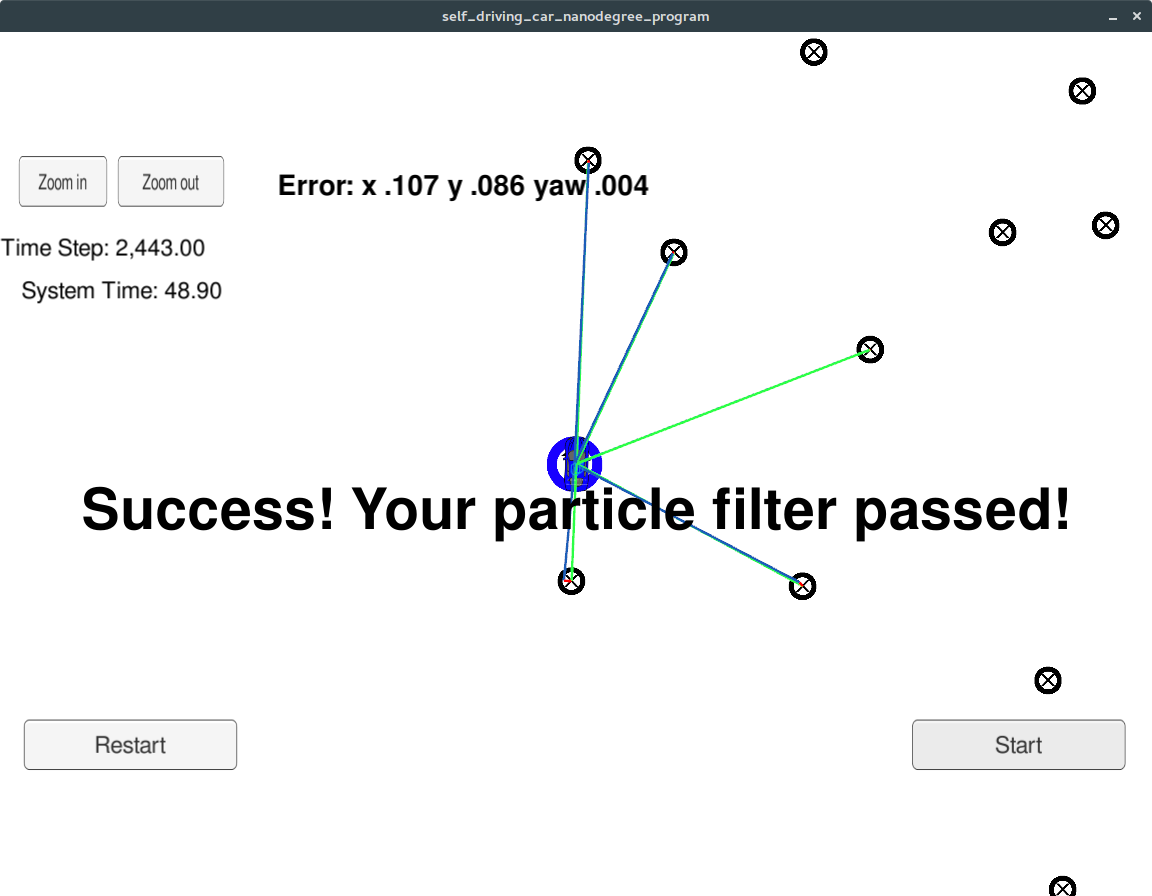
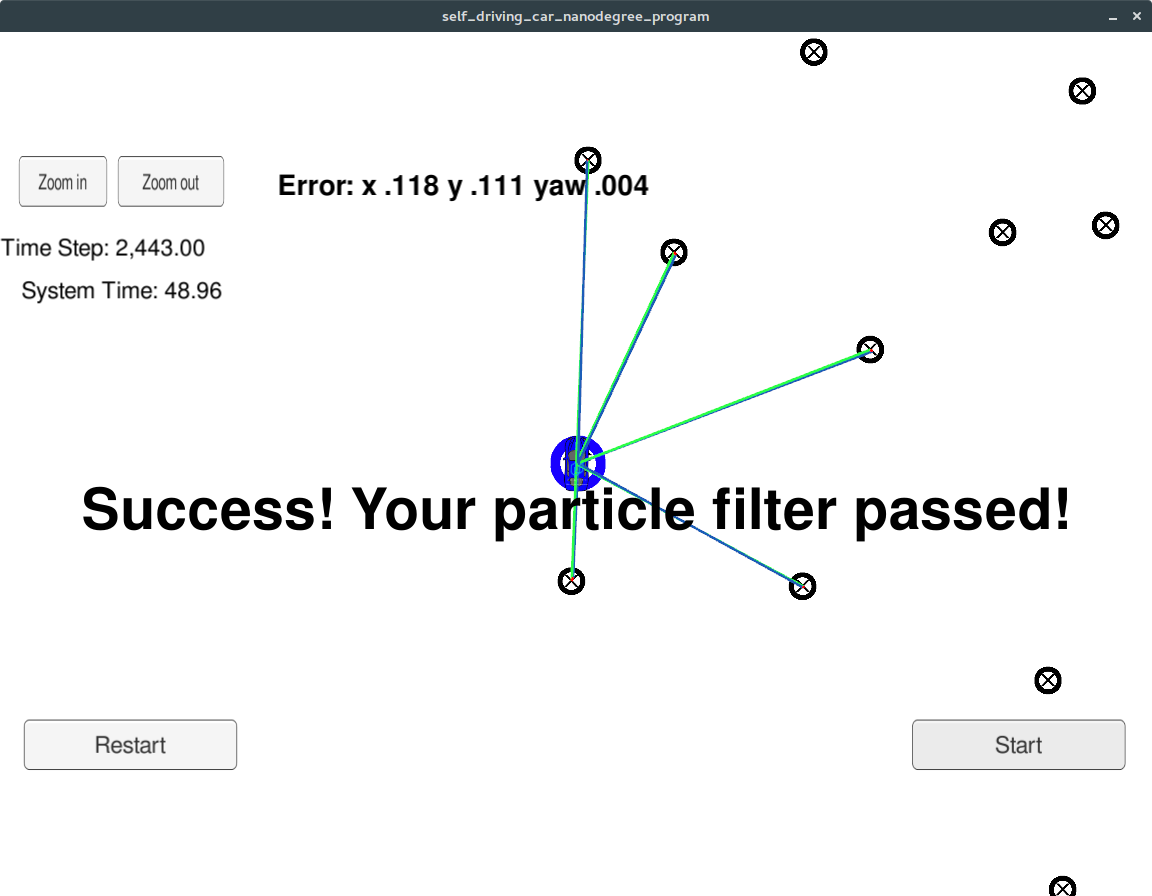
Update motion model in prediction() for when provided yaw rate is zero.

diff --git a/src/particle_filter.cpp b/src/particle_filter.cpp
@@ -74,38 +74,38 @@ void ParticleFilter::prediction(double delta_t, double std_pos[], double velocit
 	//  http://en.cppreference.com/w/cpp/numeric/random/normal_distribution
 	//  http://www.cplusplus.com/reference/random/default_random_engine/
 
-	if (fabs(yaw_rate) < 0.0001) {
-		std::cout << "Error: division by zero, bad yaw_rate provided to ParticleFilter::prediction()!"
-			<< std::endl;
-		return;
-	}
-
-	double v_over_yaw_rate = velocity / yaw_rate;
-	double yaw_delta = yaw_rate * delta_t;
+	default_random_engine rand_gen;
 
 	double std_x = std_pos[0];
 	double std_y = std_pos[1];
 	double std_theta = std_pos[2];
-
-	default_random_engine rand_gen;
 
 	// Normal Gaussian distributions for x, y, and theta
 	normal_distribution<double> noisy_x(0.0, std_x);
 	normal_distribution<double> noisy_y(0.0, std_y);
 	normal_distribution<double> noisy_theta(0.0, std_theta);
 	
+	double v_dt = velocity * delta_t;
+	
 	for (int i = 0; i < num_particles; i++) {
-		double theta = normalizeAngle(particles[i].theta);
-		double theta_yaw_delta = normalizeAngle(theta + yaw_rate * delta_t);
-		particles[i].x = particles[i].x + v_over_yaw_rate * (sin(theta_yaw_delta) - sin(theta));
-		particles[i].y = particles[i].y + v_over_yaw_rate * (cos(theta) - cos(theta_yaw_delta));
-		particles[i].theta = theta_yaw_delta;
+		double theta = particles[i].theta;
 
+		if (fabs(yaw_rate) < 0.0001) { // yaw rate is zero
+			particles[i].x = particles[i].x + v_dt * cos(theta);
+			particles[i].y = particles[i].y + v_dt * sin(theta);
+
+		} else {	
+			double v_over_yaw_rate = velocity / yaw_rate;
+			double yaw_delta = yaw_rate * delta_t;	
+			double theta_yaw_delta = theta + yaw_rate * delta_t;
+			particles[i].x = particles[i].x + v_over_yaw_rate * (sin(theta_yaw_delta) - sin(theta));
+			particles[i].y = particles[i].y + v_over_yaw_rate * (cos(theta) - cos(theta_yaw_delta));
+			particles[i].theta = theta_yaw_delta;
+		}
 		// Add Gaussian noise
-		particles[i].x += cos(theta) * noisy_x(rand_gen);
-		particles[i].y += sin(theta) * noisy_y(rand_gen);
+		particles[i].x += noisy_x(rand_gen);
+		particles[i].y += noisy_y(rand_gen);
 		particles[i].theta += noisy_theta(rand_gen);
-		particles[i].theta = normalizeAngle(particles[i].theta);
 	}
 
 }
